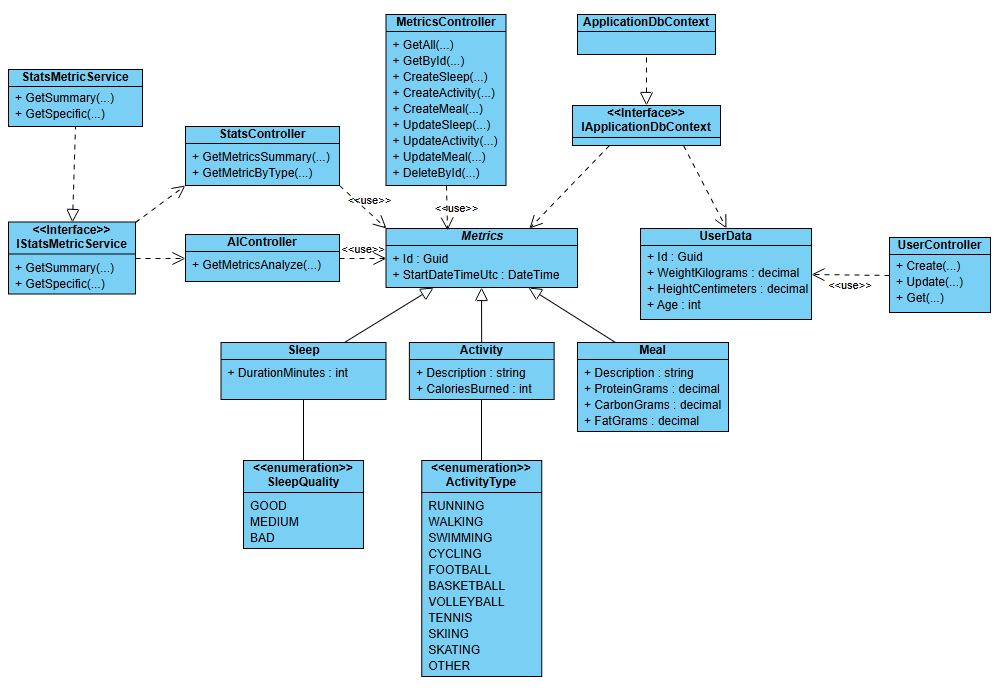
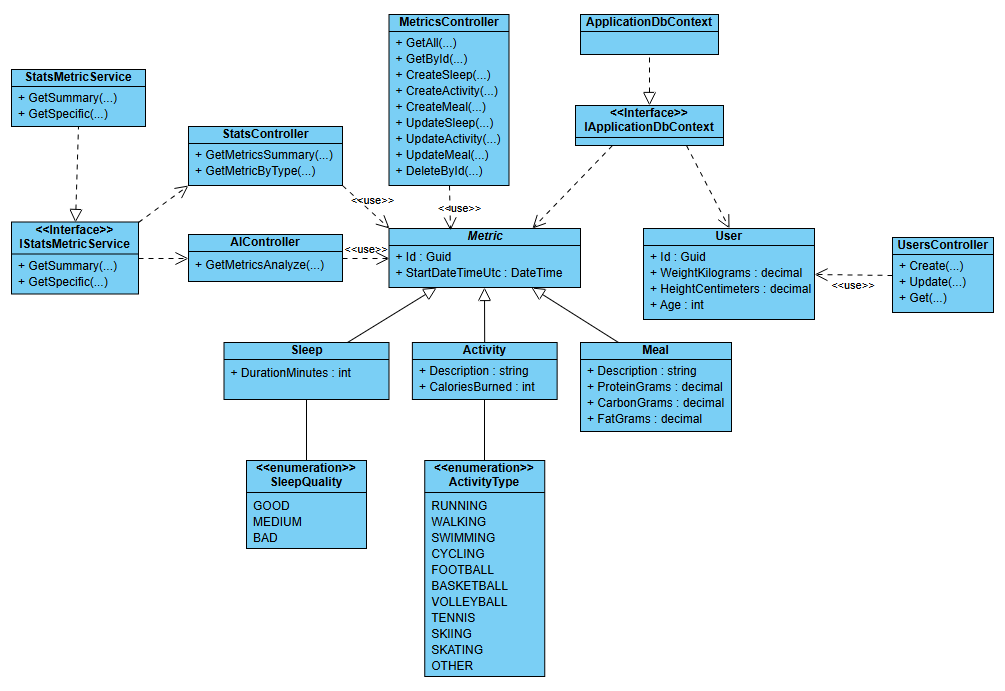
Cleanup

diff --git a/AIPersonalHealthAndHabitCoach.API/Controllers/MetricsController.cs b/AIPersonalHealthAndHabitCoach.API/Controllers/MetricsController.cs
@@ -1,10 +1,4 @@
-using AIPersonalHealthAndHabitCoach.Domain.Entities;
-using Microsoft.AspNetCore.Builder;
-using Microsoft.AspNetCore.Http;
-using Microsoft.AspNetCore.Routing;
-using System;
-
-namespace AIPersonalHealthAndHabitCoach.API.Controllers
+namespace AIPersonalHealthAndHabitCoach.API.Controllers
 {
     public static class MetricsController
     {
@@ -12,22 +6,18 @@ namespace AIPersonalHealthAndHabitCoach.API.Controllers
         {
             var group = app.MapGroup("api/metrics");
 
-            // GET
-            group.MapGet("/", () => Results.Ok("Pobrano wszystkie metryki"));
-            group.MapGet("/{id:guid}", (Guid id) => Results.Ok($"Pobrano metrykę {id}"));
+            group.MapGet("/", () => Results.Ok());
+            group.MapGet("/{id}", (Guid id) => Results.Ok());
 
-            // POST (Create)
-            group.MapPost("/sleep", (Sleep sleep) => Results.Ok("Dodano sen"));
-            group.MapPost("/activity", (Activity activity) => Results.Ok("Dodano aktywność"));
-            group.MapPost("/meal", (Meal meal) => Results.Ok("Dodano posiłek"));
+            group.MapPost("/sleep", () => Results.Created());
+            group.MapPost("/activity", () => Results.Created());
+            group.MapPost("/meal", () => Results.Created());
 
-            // PUT (Update)
-            group.MapPut("/sleep", (Sleep sleep) => Results.Ok("Zaktualizowano sen"));
-            group.MapPut("/activity", (Activity activity) => Results.Ok("Zaktualizowano aktywność"));
-            group.MapPut("/meal", (Meal meal) => Results.Ok("Zaktualizowano posiłek"));
+            group.MapPut("/sleep", () => Results.NoContent());
+            group.MapPut("/activity", () => Results.NoContent());
+            group.MapPut("/meal", () => Results.NoContent());
 
-            // DELETE
-            group.MapDelete("/{id:guid}", (Guid id) => Results.Ok($"Usunięto element {id}"));
+            group.MapDelete("/{id}", (Guid id) => Results.NoContent());
         }
     }
 }

diff --git a/AIPersonalHealthAndHabitCoach.API/Controllers/StatsController.cs b/AIPersonalHealthAndHabitCoach.API/Controllers/StatsController.cs
@@ -1,7 +1,4 @@
-using Microsoft.AspNetCore.Builder;
-using Microsoft.AspNetCore.Http;
-using Microsoft.AspNetCore.Routing;
-using System;
+using AIPersonalHealthAndHabitCoach.Domain.Enums;
 
 namespace AIPersonalHealthAndHabitCoach.API.Controllers
 {
@@ -11,15 +8,9 @@ namespace AIPersonalHealthAndHabitCoach.API.Controllers
         {
             var group = app.MapGroup("api/stats");
 
-            group.MapGet("/summary/{userId:guid}", (Guid userId) =>
-            {
-                return Results.Ok("Tu będzie podsumowanie statystyk");
-            });
+            group.MapGet("/metrics/summary", () => Results.Ok());
 
-            group.MapGet("/type/{userId:guid}", (Guid userId, string type) =>
-            {
-                return Results.Ok($"Szczegółowe statystyki dla: {type}");
-            });
+            group.MapGet("/metrics/{type}", (MetricType type) => Results.Ok());
         }
     }
 }

diff --git a/AIPersonalHealthAndHabitCoach.API/Controllers/AIController.cs b/AIPersonalHealthAndHabitCoach.API/Controllers/AIController.cs
@@ -1,8 +1,4 @@
-using Microsoft.AspNetCore.Builder;
-using Microsoft.AspNetCore.Http;
-using Microsoft.AspNetCore.Routing;
-
-namespace AIPersonalHealthAndHabitCoach.API.Controllers
+namespace AIPersonalHealthAndHabitCoach.API.Controllers
 {
     public static class AIController
     {
@@ -10,9 +6,9 @@ namespace AIPersonalHealthAndHabitCoach.API.Controllers
         {
             var group = app.MapGroup("api/ai");
 
-            group.MapGet("analyze", () =>
+            group.MapGet("/metrics/analyze", () =>
             {
-                return Results.Ok("Tu będzie analiza AI Twoich nawyków.");
+                return Results.Ok();
             });
         }
     }

diff --git a/AIPersonalHealthAndHabitCoach.Domain/Enums/ActivityType.cs b/AIPersonalHealthAndHabitCoach.Domain/Enums/ActivityType.cs
@@ -2,16 +2,16 @@
 {
     public enum ActivityType
     {
-        RUNNING,
-        WALKING,
-        SWIMMING,
-        CYCLING,
-        FOOTBALL,
-        BASKETBALL,
-        VOLLEYBALL,
-        TENNIS,
-        SKIING,
-        SKATING,
-        OTHER
+        Running,
+        Walking,
+        Swimming,
+        Cycling,
+        Football,
+        Basketball,
+        Volleyball,
+        Tennis,
+        Skiing,
+        Skating,
+        Other
     }
 }

diff --git a/AIPersonalHealthAndHabitCoach.API/Controllers/UsersController.cs b/AIPersonalHealthAndHabitCoach.API/Controllers/UsersController.cs
@@ -1,0 +1,16 @@
+namespace AIPersonalHealthAndHabitCoach.API.Controllers
+{
+    public static class UsersController
+    {
+        public static void MapUsersEndpoints(this IEndpointRouteBuilder app)
+        {
+            var group = app.MapGroup("api/users");
+
+            group.MapPost("/", () => Results.Created());
+
+            group.MapPut("/", () => Results.NoContent());
+
+            group.MapGet("/", () => Results.Ok());
+        }
+    }
+}

diff --git a/AIPersonalHealthAndHabitCoach.API/EndpointDefinitions.cs b/AIPersonalHealthAndHabitCoach.API/EndpointDefinitions.cs
@@ -1,0 +1,15 @@
+using AIPersonalHealthAndHabitCoach.API.Controllers;
+
+namespace AIPersonalHealthAndHabitCoach.API
+{
+    public static class EndpointDefinitions
+    {
+        public static void MapApiEndpoints(this IEndpointRouteBuilder app)
+        {
+            app.MapAIEndpoints();
+            app.MapMetricsEndpoints();
+            app.MapStatsEndpoints();
+            app.MapUsersEndpoints();
+        }
+    }
+}

diff --git a/AIPersonalHealthAndHabitCoach.API/Program.cs b/AIPersonalHealthAndHabitCoach.API/Program.cs
@@ -1,5 +1,6 @@
-using AIPersonalHealthAndHabitCoach.Infrastructure.Extensions;
+using AIPersonalHealthAndHabitCoach.API;
 using AIPersonalHealthAndHabitCoach.Application.Extensions;
+using AIPersonalHealthAndHabitCoach.Infrastructure.Extensions;
 
 var builder = WebApplication.CreateBuilder(args);
 
@@ -16,5 +17,7 @@ if (app.Environment.IsDevelopment())
 }
 
 app.UseHttpsRedirection();
+
+app.MapApiEndpoints();
 
 app.Run();

diff --git a/AIPersonalHealthAndHabitCoach.Domain/Entities/User.cs b/AIPersonalHealthAndHabitCoach.Domain/Entities/User.cs
@@ -1,8 +1,6 @@
-using System;
-
-namespace AIPersonalHealthAndHabitCoach.Domain.Entities
+namespace AIPersonalHealthAndHabitCoach.Domain.Entities
 {
-    public class UserData
+    public class User
     {
         public Guid Id { get; set; }
         public decimal WeightKilograms { get; set; }

diff --git a/AIPersonalHealthAndHabitCoach.Domain/Entities/Activity.cs b/AIPersonalHealthAndHabitCoach.Domain/Entities/Activity.cs
@@ -2,7 +2,7 @@
 
 namespace AIPersonalHealthAndHabitCoach.Domain.Entities
 {
-    public class Activity : Metrics
+    public class Activity : Metric
     {
         public string Description { get; set; } = string.Empty;
         public int CaloriesBurned { get; set; }

diff --git a/AIPersonalHealthAndHabitCoach.Domain/Entities/Meal.cs b/AIPersonalHealthAndHabitCoach.Domain/Entities/Meal.cs
@@ -1,6 +1,6 @@
 namespace AIPersonalHealthAndHabitCoach.Domain.Entities
 {
-    public class Meal : Metrics
+    public class Meal : Metric
     {
         public string Description { get; set; } = string.Empty;
         public decimal ProteinGrams { get; set; }

diff --git a/AIPersonalHealthAndHabitCoach.Domain/Entities/Sleep.cs b/AIPersonalHealthAndHabitCoach.Domain/Entities/Sleep.cs
@@ -2,10 +2,9 @@
 
 namespace AIPersonalHealthAndHabitCoach.Domain.Entities
 {
-    public class Sleep : Metrics
+    public class Sleep : Metric
     {
         public int DurationMinutes { get; set; }
-
         public SleepQuality Quality { get; set; }
     }
 }

diff --git a/AIPersonalHealthAndHabitCoach.Domain/Entities/Metric.cs b/AIPersonalHealthAndHabitCoach.Domain/Entities/Metric.cs
@@ -1,0 +1,8 @@
+namespace AIPersonalHealthAndHabitCoach.Domain.Entities
+{
+    public abstract class Metric
+    {
+        public Guid Id { get; set; }
+        public DateTime StartDateTimeUtc { get; set; }
+    }
+}
